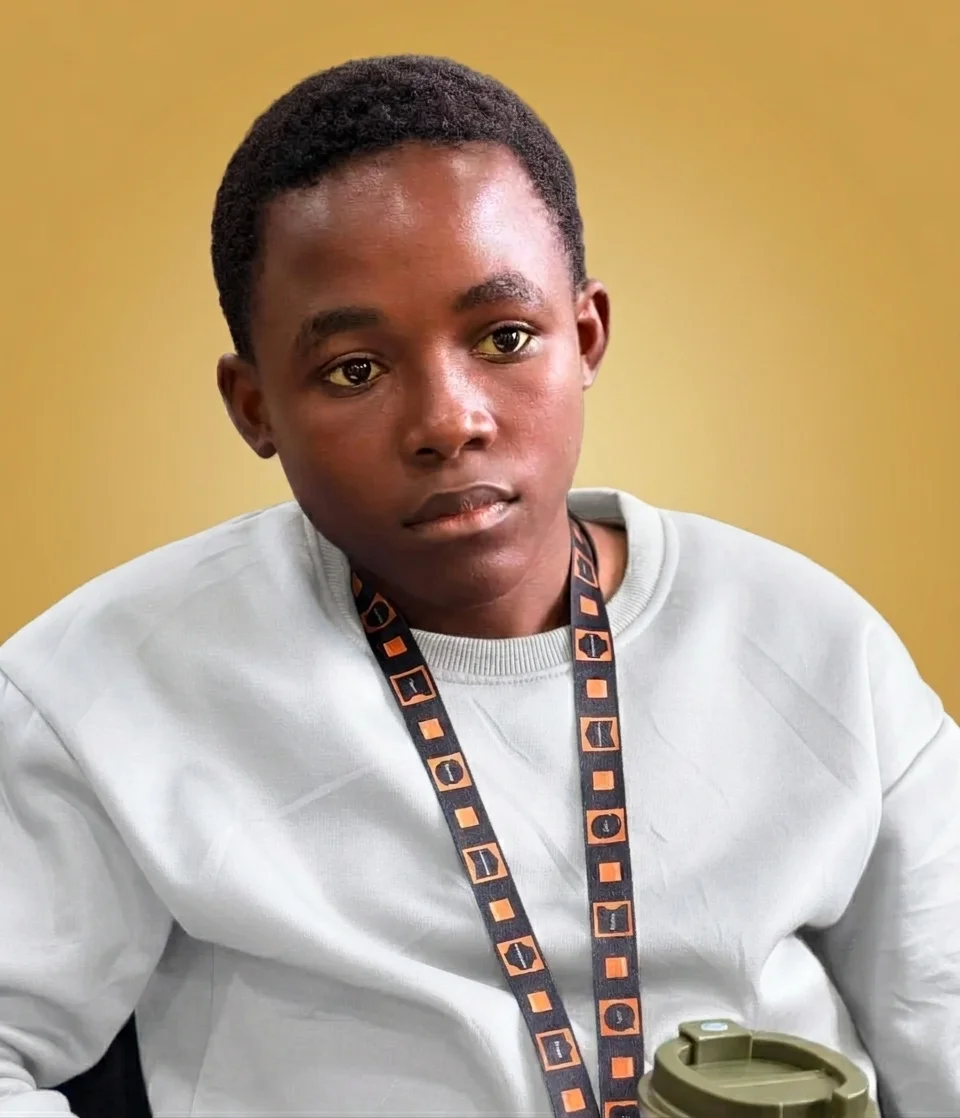
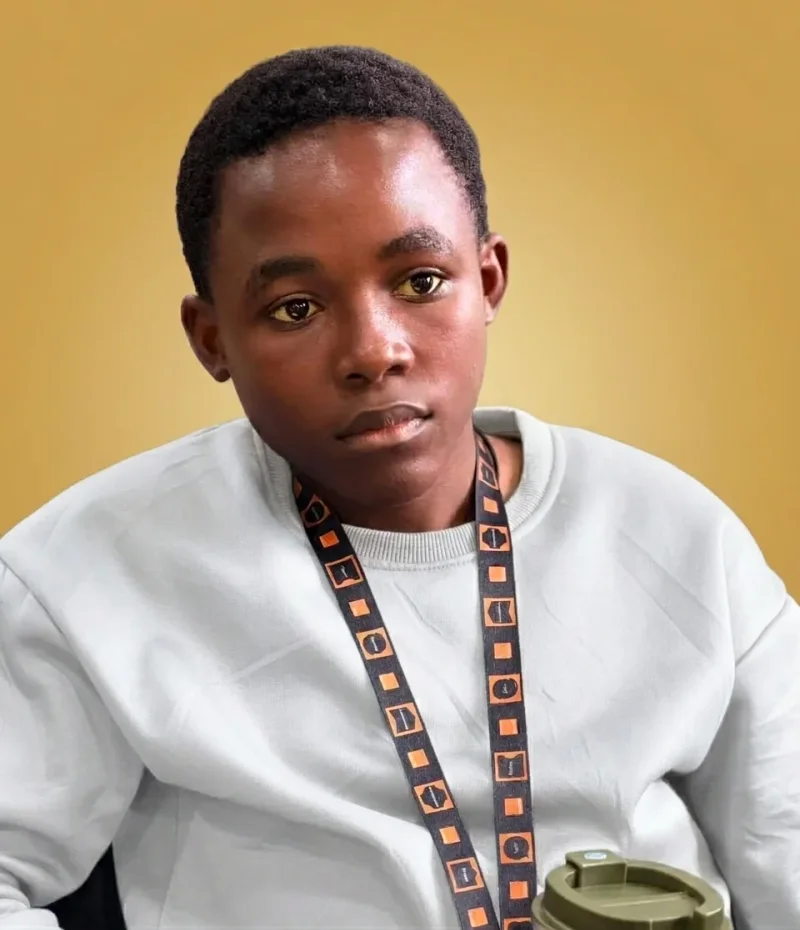
perf(assets): optimize hero Lottie loading and update brand imagery
- Replace IntersectionObserver with window 'load' + requestIdleCallback strategy to defer heavy Lottie WASM parsing until browser is idle, reducing Total Blocking Time
- Update max-prime-logo.webp with refined design across header, footer, and multiple size variants
- Add max-prime-logo-80.webp and max-prime-logo-new.webp for optimized logo asset management
- Optimize max-portrait.webp image compression
- Add lazy loading and fetchpriority="low" attributes to logo images in header and footer for improved Core Web Vitals
- Remove unused ElementRef dependency from Hero component
- Add guard to prevent duplicate Lottie script injection
- Clean up timeout on component destroy to prevent memory leaks

diff --git a/src/app/components/hero/hero.ts b/src/app/components/hero/hero.ts
@@ -3,7 +3,6 @@ import {
   ChangeDetectionStrategy,
   Component,
   CUSTOM_ELEMENTS_SCHEMA,
-  ElementRef,
   Inject,
   OnDestroy,
   PLATFORM_ID,
@@ -25,36 +24,41 @@ const LOTTIE_CDN =
   templateUrl: './hero.html',
 })
 export class Hero implements AfterViewInit, OnDestroy {
-  private observer: IntersectionObserver | null = null;
   private scriptLoaded = false;
+  private loadTimeout: ReturnType<typeof setTimeout> | null = null;
 
   constructor(
     @Inject(PLATFORM_ID) private platformId: object,
-    private elRef: ElementRef<HTMLElement>,
   ) {}
 
   ngAfterViewInit(): void {
     if (!isPlatformBrowser(this.platformId)) return;
 
-    // Inject Lottie script only once the hero section enters the viewport
-    // (fires after LCP so it doesn't block first paint)
-    this.observer = new IntersectionObserver(
-      (entries) => {
-        if (entries[0].isIntersecting && !this.scriptLoaded) {
-          this.loadLottieScript();
-          this.observer?.disconnect();
-        }
-      },
-      { threshold: 0.01 },
-    );
-    this.observer.observe(this.elRef.nativeElement);
+    // Strategy: wait for window 'load' (all critical resources done), then
+    // use requestIdleCallback (or a 200ms fallback) so the browser picks a
+    // quiet moment to parse the WASM-heavy Lottie bundle.
+    // This keeps the heavy JS execution well outside the TBT window.
+    const inject = () => {
+      if ((window as any).requestIdleCallback) {
+        (window as any).requestIdleCallback(() => this.loadLottieScript(), { timeout: 2000 });
+      } else {
+        this.loadTimeout = setTimeout(() => this.loadLottieScript(), 200);
+      }
+    };
+
+    if (document.readyState === 'complete') {
+      inject();
+    } else {
+      window.addEventListener('load', inject, { once: true });
+    }
   }
 
   ngOnDestroy(): void {
-    this.observer?.disconnect();
+    if (this.loadTimeout) clearTimeout(this.loadTimeout);
   }
 
   private loadLottieScript(): void {
+    if (this.scriptLoaded) return;
     if (document.querySelector(`script[src="${LOTTIE_CDN}"]`)) {
       this.scriptLoaded = true;
       return;

diff --git a/src/app/components/footer/site-footer.ts b/src/app/components/footer/site-footer.ts
@@ -38,6 +38,8 @@ import { CONTACT } from '../../data/projects';
               alt="Max Prime logo"
               width="36"
               height="36"
+              loading="lazy"
+              fetchpriority="low"
               class="h-9 w-9 object-contain rounded-[2px]"
             />
             <div>

diff --git a/src/app/components/header/site-header.ts b/src/app/components/header/site-header.ts
@@ -46,6 +46,7 @@ import { CONTACT } from '../../data/projects';
           alt="Max Prime logo"
           width="28"
           height="28"
+          fetchpriority="low"
           class="h-7 w-7 object-contain rounded-[2px]"
         />
         <span class="flex items-baseline gap-[5px]">
